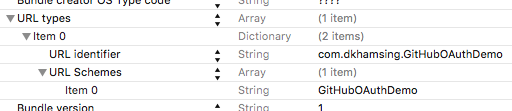
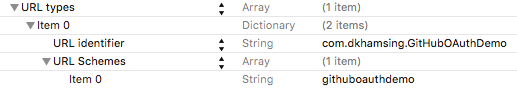
Improve Safari View Controller

diff --git a/GitHubOAuthDemo/GitHubOAuthDemo/AppDelegate.m b/GitHubOAuthDemo/GitHubOAuthDemo/AppDelegate.m
@@ -24,8 +24,13 @@
 
 - (BOOL)application:(UIApplication *)application didFinishLaunchingWithOptions:(NSDictionary *)launchOptions {
     // Override point for customization after application launch.
-    
-    [[GitHubOAuthController sharedInstance] configureForSafariViewControllerWithClientId:kClientId clientSecret:kClientSecret redirectUri:kRedirectUri scope:kScope];
+        
+    NSArray *list = [[NSBundle mainBundle] objectForInfoDictionaryKey:@"CFBundleURLTypes"];
+    NSDictionary *item = list.firstObject;
+    NSArray *schemes = item[@"CFBundleURLSchemes"];
+    NSString *scheme = schemes.firstObject;
+    NSString *redirectUri = [NSString stringWithFormat:@"%@://", scheme];
+    [[GitHubOAuthController sharedInstance] configureForSafariViewControllerWithClientId:kClientId clientSecret:kClientSecret redirectUri:redirectUri scope:kScope];
     
     self.window = [[UIWindow alloc] initWithFrame:[[UIScreen mainScreen] bounds]];
     self.window.rootViewController = ({
@@ -63,20 +68,15 @@
 - (BOOL)application:(UIApplication *)app openURL:(NSURL *)url options:(NSDictionary<NSString *,id> *)options {
     NSString *source = options[UIApplicationOpenURLOptionsSourceApplicationKey];
     if ([source isEqualToString:gh_safariViewService]) {
-        [[NSNotificationCenter defaultCenter] postNotificationName:kCloseSafariViewController object:nil];
-        
-        [[GitHubOAuthController sharedInstance] exchangeCodeForAccessTokenInUrl:url success:^(NSString *accessToken, NSDictionary *raw) {
+        [[GitHubOAuthController sharedInstance] handleOpenUrl:url options:options success:^(NSString *accessToken, NSDictionary *raw) {
             NSString *message = [NSString stringWithFormat:@"oauth with safari view controller: retrieved access token: %@ \nraw: %@", accessToken, raw];
-            NSLog(@"%@", message);            
+            NSLog(@"%@", message);
             UIAlertController *alertController = [UIAlertController alertControllerWithTitle:@"☺" message:message preferredStyle:UIAlertControllerStyleAlert];
             UIAlertAction *action = [UIAlertAction actionWithTitle:@"OK" style:UIAlertActionStyleDefault handler:nil];
             [alertController addAction:action];
             [self.window.rootViewController presentViewController:alertController animated:YES completion:nil];
-
         } failure:nil];
-        
-        return YES;
-    };
+    }
     
     return NO;
 }

diff --git a/GitHubOAuthController/GithubOAuthController.m b/GitHubOAuthController/GithubOAuthController.m
@@ -7,6 +7,10 @@
 
 #import "GitHubOAuthController.h"
 
+
+// Frameworks
+@import SafariServices;
+
 NSString *gh_url_authorize = @"https://github.com/login/oauth/authorize";
 NSString *gh_url_token = @"https://github.com/login/oauth/access_token";
 
@@ -29,6 +33,8 @@ NSString *gh_application_json = @"application/json";
 
 @property (nonatomic, copy) void (^success)(NSString *, NSDictionary *);
 @property (nonatomic, copy) void (^failure)(NSError *);
+
+@property (nonatomic, strong) SFSafariViewController *safariViewController;
 @end
 
 @implementation GitHubOAuthController
@@ -107,7 +113,15 @@ NSString *gh_application_json = @"application/json";
     self.clientId = clientId;
     self.clientSecret = clientSecret;
     self.redirectUri = redirectUri;
-    self.scope = [scope stringByReplacingOccurrencesOfString:@" " withString:@"+"];
+    self.scope = [scope stringByReplacingOccurrencesOfString:@" " withString:@"+"];    
+}
+
+- (SFSafariViewController *)safariViewController {
+    if (!_safariViewController) {
+        NSURL *url = [self authUrl];
+        _safariViewController = [[SFSafariViewController alloc] initWithURL:url entersReaderIfAvailable:NO];
+    }
+    return _safariViewController;
 }
 
 - (void)exchangeCodeForAccessTokenInUrl:(NSURL *)url success:(void (^)(NSString *accessToken, NSDictionary *raw))success failure:(void (^)(NSError *error))failure;
@@ -162,6 +176,27 @@ NSString *gh_application_json = @"application/json";
             }
         }
     }] resume];
+}
+
+#pragma mark Safari View Controller
+
+- (void)handleOpenUrl:(NSURL *)url options:(NSDictionary *)options success:(void (^)(NSString *, NSDictionary *))success failure:(void (^)(NSError *))failure;
+{
+    [self.safariViewController dismissViewControllerAnimated:YES completion:^{        
+        if ([url.absoluteString containsString:self.redirectUri]) {
+            [self exchangeCodeForAccessTokenInUrl:url success:success failure:failure];
+        }
+        else {
+            if (self.failure) {
+                self.failure([NSError errorWithDomain:@"OAuth Error" code:600 userInfo:nil]);
+            }
+        }
+    }];
+}
+
+- (void)presentOAuthSafariLoginFromController:(UIViewController *)controller;
+{
+    [controller presentViewController:self.safariViewController animated:YES completion:nil];
 }
 
 #pragma mark - Private

diff --git a/GitHubOAuthDemo/GitHubOAuthDemoTests/GitHubOAuthDemoTests.m b/GitHubOAuthDemo/GitHubOAuthDemoTests/GitHubOAuthDemoTests.m
@@ -11,6 +11,11 @@
 
 #import "GitHubOAuthController.h"
 
+static NSString *const kClient    = @"key";
+static NSString *const kSecret    = @"secret";
+static NSString *const kScope     = @"scope";
+static NSString *const kRedirect  = @"scheme://";
+
 @interface GitHubOAuthDemoTests : XCTestCase
 
 @property (nonatomic, strong) GitHubOAuthController *authController;
@@ -24,20 +29,20 @@
     
     self.authController = [[GitHubOAuthController alloc] initWithClientId:@"" clientSecret:@"" scope:@"" success:nil failure:nil];
     
-    [[GitHubOAuthController sharedInstance] configureForSafariViewControllerWithClientId:@"client" clientSecret:@"secret" redirectUri:@"redirect" scope:@"scope"];
+    [[GitHubOAuthController sharedInstance] configureForSafariViewControllerWithClientId:kClient clientSecret:kSecret redirectUri:kRedirect scope:kScope];
 }
 
-//- (void)tearDown {
-//    // Put teardown code here. This method is called after the invocation of each test method in the class.
-//    [super tearDown];
-//}
-
 - (void)testAuthUrl {
-    XCTAssertTrue([[GitHubOAuthController sharedInstance].authUrl.absoluteString isEqualToString:@"https://github.com/login/oauth/authorize?redirect_uri=redirect&client_id=client&scope=scope"]);
+    NSString *expect = [NSString stringWithFormat:@"https://github.com/login/oauth/authorize?redirect_uri=%@&client_id=%@&scope=%@", kRedirect, kClient, kScope];
+    XCTAssertTrue([[GitHubOAuthController sharedInstance].authUrl.absoluteString isEqualToString:expect]);
 }
 
 - (void)testInit {
     XCTAssertTrue([self.authController isKindOfClass:[UIViewController class]]);
+}
+
+- (void)testSharedInstance {
+    XCTAssertTrue([[GitHubOAuthController sharedInstance] isKindOfClass:[GitHubOAuthController class]]);
 }
 
 @end

diff --git a/GitHubOAuthDemo/GitHubOAuthDemo/SafariDemoController.m b/GitHubOAuthDemo/GitHubOAuthDemo/SafariDemoController.m
@@ -11,20 +11,7 @@
 // Controllers
 #import "GitHubOAuthController.h"
 
-// Frameworks
-@import SafariServices;
-
-@interface SafariDemoController ()
-
-@property (nonatomic, strong) SFSafariViewController *safariViewController;
-
-@end
-
 @implementation SafariDemoController
-
-- (void)dealloc {
-    [[NSNotificationCenter defaultCenter] removeObserver:self];
-}
 
 - (instancetype)init {
     self = [super init];
@@ -56,19 +43,8 @@
     return self;
 }
 
-- (void)viewDidLoad {
-    [super viewDidLoad];
-    
-    [[NSNotificationCenter defaultCenter] addObserver:self selector:@selector(ReceiveCloseSafariNotification:) name:kCloseSafariViewController object:nil];
-}
-
 - (void)actionStartSafari {
-    self.safariViewController = [[SFSafariViewController alloc] initWithURL:[GitHubOAuthController sharedInstance].authUrl entersReaderIfAvailable:NO];
-    [self presentViewController:self.safariViewController animated:YES completion:nil];
-}
-
-- (void)ReceiveCloseSafariNotification:(NSNotification *)notification {
-    [self.safariViewController dismissViewControllerAnimated:YES completion:nil];
+    [[GitHubOAuthController sharedInstance] presentOAuthSafariLoginFromController:self];
 }
 
 @end

diff --git a/GitHubOAuthController/GitHubOAuthController.h b/GitHubOAuthController/GitHubOAuthController.h
@@ -60,4 +60,19 @@ static NSString * const gh_safariViewService = @"com.apple.SafariViewService";
  */
 - (void)exchangeCodeForAccessTokenInUrl:(NSURL *)url success:(void (^)(NSString *accessToken, NSDictionary *raw))success failure:(void (^)(NSError *error))failure;
 
+/**
+ App delegate helper to get access token for - application:openURL:options:.
+ @param url Open url.
+ @param options Open url options.
+ @param success Success completion block that takes a results parameter (OAuth token, OAuth token secret, Twitter screen name, etc..)
+ @param failure Failure block.
+ */
+- (void)handleOpenUrl:(NSURL *)url options:(NSDictionary *)options success:(void (^)(NSString *accessToken, NSDictionary *raw))success failure:(void (^)(NSError *error))failure;
+
+/**
+ Present GitHub OAuth login with Safari View Controller.
+ @param controller Controller to present GitHub OAuth login from.
+ */
+- (void)presentOAuthSafariLoginFromController:(UIViewController *)controller;
+
 @end

diff --git a/GitHubOAuthDemo/GitHubOAuthDemo/TraditionalDemoController.h b/GitHubOAuthDemo/GitHubOAuthDemo/TraditionalDemoController.h
@@ -10,7 +10,7 @@
 
 static NSString *const kClientId = @"TODO";
 static NSString *const kClientSecret = @"TODO";
-static NSString *const kRedirectUri = @"GitHubOAuthDemo://token";
+static NSString *const kRedirectUri = @"githuboauthdemo://";
 static NSString *const kScope = @"user notifications repo";
 
 @interface TraditionalDemoController : UIViewController

diff --git a/GitHubOAuthDemo/GitHubOAuthDemo/SafariDemoController.h b/GitHubOAuthDemo/GitHubOAuthDemo/SafariDemoController.h
@@ -8,8 +8,6 @@
 
 #import <UIKit/UIKit.h>
 
-static NSString *kCloseSafariViewController = @"kCloseSafariViewController";
-
 @interface SafariDemoController : UIViewController
 
 @end

diff --git a/README.md b/README.md
@@ -25,22 +25,10 @@ Add the files in the GitHubOAuthController folder to your project.
 
 ## Usage
 
-### Traditional in app OAuth
-
-``` objc
-#import "GitHubOAuthController.h"
-
-GitHubOAuthController *oAuthController = [[GitHubOAuthController alloc] initWithClientId:kClientId clientSecret:kClientSecret scope:kScope success:^(NSString *accessToken, NSDictionary *raw) {
-  NSLog(@"access token: %@ \nraw: %@", accessToken, raw);
-} failure:nil];
-    
-[oAuthController showModalFromController:self];
-```
-
 ### OAuth with Safari View Controller
 
 - Set url scheme in `.plist`
-  
+
 ![plist](Assets/plist.png)
 
 ```
@@ -51,30 +39,43 @@ GitHubOAuthController *oAuthController = [[GitHubOAuthController alloc] initWith
 			<string>com.dkhamsing.GitHubOAuthDemo</string>
 			<key>CFBundleURLSchemes</key>
 			<array>
-				<string>GitHubOAuthDemo</string>
+				<string>githuboauthdemo</string>
 			</array>
 		</dict>
 	</array>
 ```
-- Set *Authorization callback URL* in GitHub app https://github.com/settings/developers, i.e. `GitHubOAuthDemo://token`
-
-- Get token in app delegate
+- Set *Authorization callback URL* in GitHub app https://github.com/settings/developers, i.e. `githuboauthdemo://`
 
 ``` objc
+// configure (get redirectUri from plist)
+[[GitHubOAuthController sharedInstance] configureForSafariViewControllerWithClientId:kClientId clientSecret:kClientSecret redirectUri:redirectUri scope:kScope];
+
+// show login
+[[GitHubOAuthController sharedInstance] presentOAuthSafariLoginFromController:self];
+
+// get access token
 - (BOOL)application:(UIApplication *)app openURL:(NSURL *)url options:(NSDictionary<NSString *,id> *)options {
     NSString *source = options[UIApplicationOpenURLOptionsSourceApplicationKey];
-    if ([source isEqualToString:gh_safariViewService]) {
-        [[NSNotificationCenter defaultCenter] postNotificationName:kCloseSafariViewController object:nil];
-        
-        [[GitHubOAuthController sharedInstance] requestAccessTokenWithUrl:url success:^(NSString *accessToken, NSDictionary *raw) {
+    if ([source isEqualToString:gh_safariViewService]) {        
+        [[GitHubOAuthController sharedInstance] handleOpenUrl:url options:options success:^(NSString *accessToken, NSDictionary *raw) {
             NSLog(@"oauth with safari view controller: retrieved access token: %@ \nraw: %@", accessToken, raw);
-        } failure:nil];
-        
-        return YES;
+        } failure:nil];        
     };
-    
+
     return NO;
 }
+```
+
+### Traditional in app OAuth
+
+``` objc
+#import "GitHubOAuthController.h"
+
+GitHubOAuthController *oauthController = [[GitHubOAuthController alloc] initWithClientId:kClientId clientSecret:kClientSecret scope:kScope success:^(NSString *accessToken, NSDictionary *raw) {
+  NSLog(@"access token: %@ \nraw: %@", accessToken, raw);
+} failure:nil];
+
+[oauthController showModalFromController:self];
 ```
 
 # Demo
